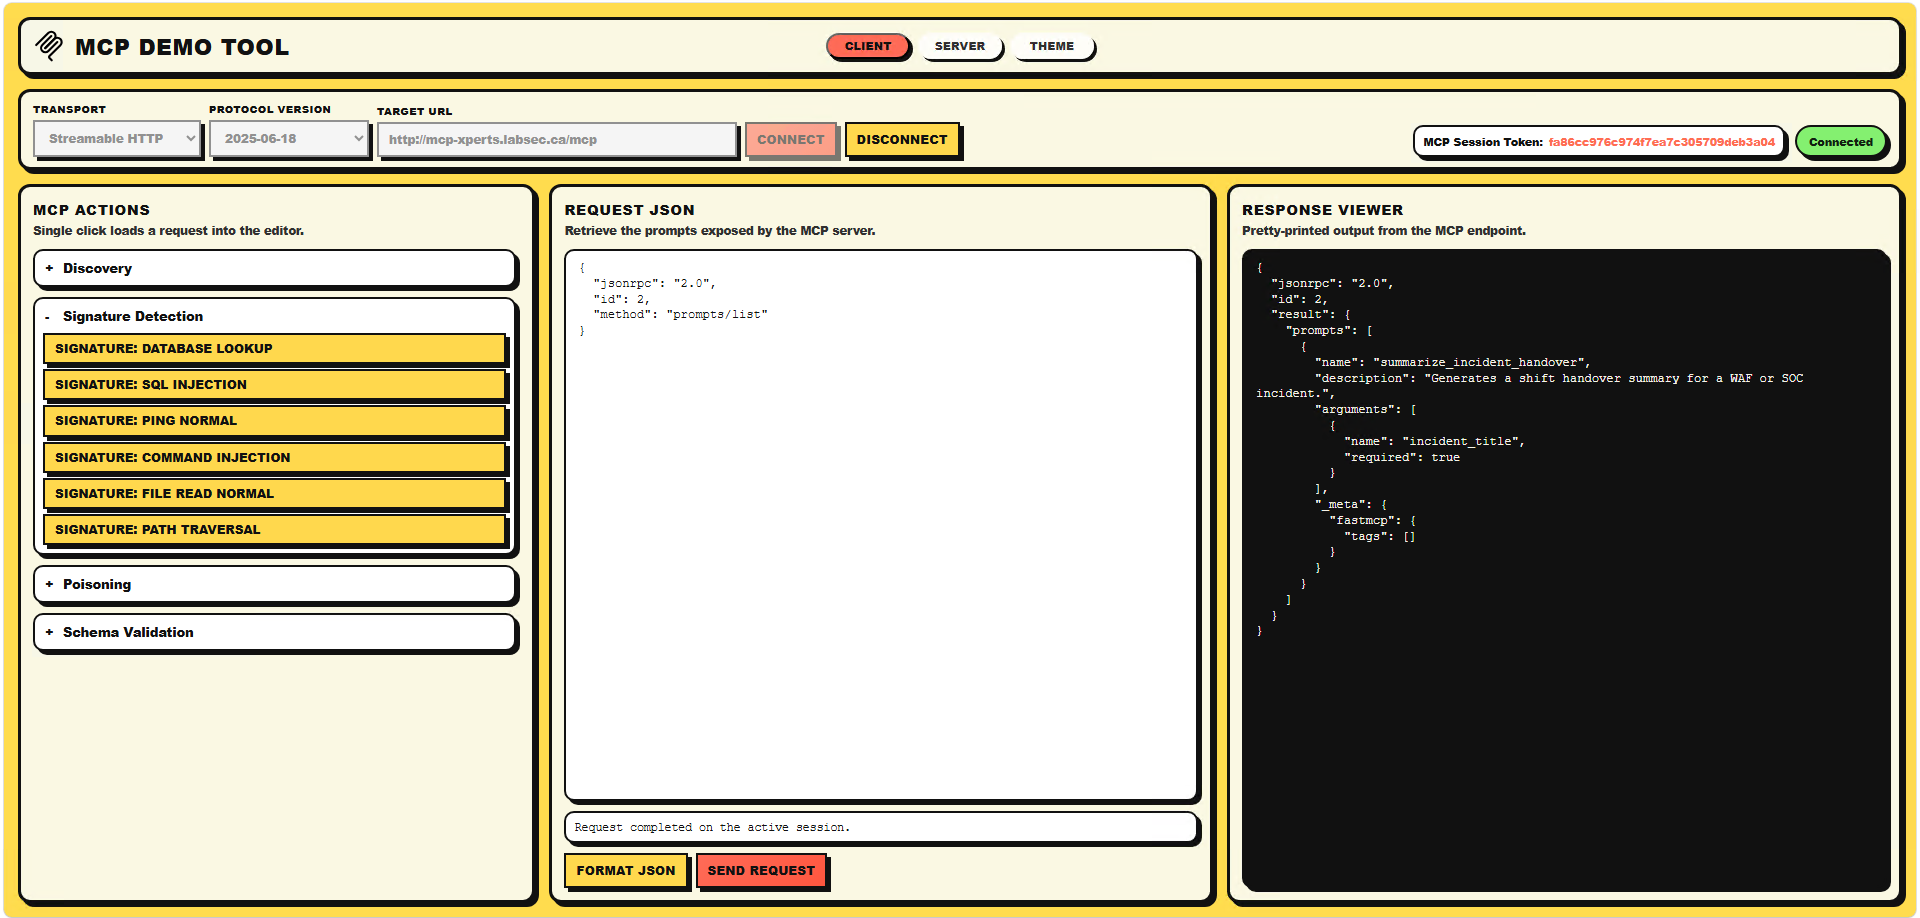
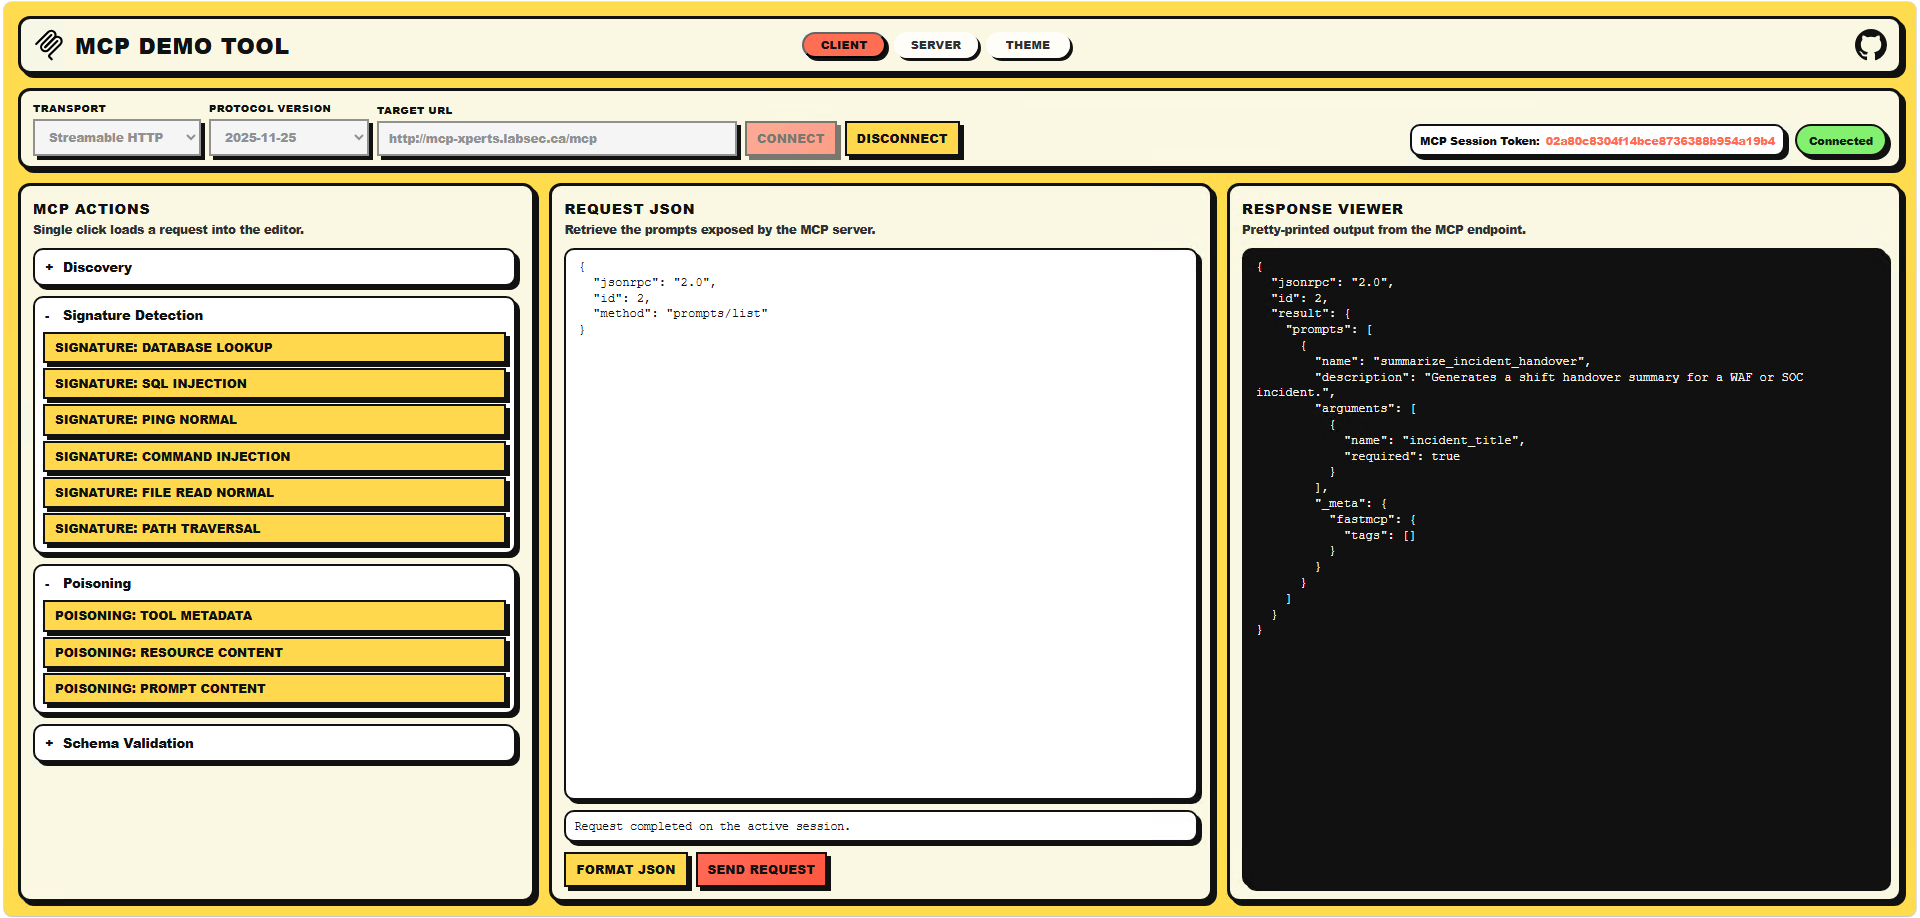
Github link

diff --git a/apps/web/webapp/templates/index.html b/apps/web/webapp/templates/index.html
@@ -22,6 +22,38 @@
             <button id="theme-tab" class="tab-button" type="button">Theme</button>
           </nav>
         </div>
+        <div class="topbar-links" aria-label="External Links">
+          <a
+            class="topbar-external-link"
+            href="https://hub.docker.com/repository/docker/benoitbmtl/mcp-demo"
+            target="_blank"
+            rel="noopener noreferrer"
+            aria-label="Open Docker Hub repository"
+            title="Docker Hub repository"
+          >
+            <svg class="topbar-external-logo topbar-docker-logo" viewBox="0 0 122.88 88.17" preserveAspectRatio="xMidYMid meet" aria-hidden="true">
+              <path
+                fill="currentColor"
+                d="M121.68,33.34c-0.34-0.28-3.42-2.62-10.03-2.62c-1.71,0-3.48,0.17-5.19,0.46c-1.25-8.72-8.49-12.94-8.78-13.16l-1.77-1.03l-1.14,1.65c-1.42,2.22-2.51,4.73-3.13,7.29c-1.2,4.96-0.46,9.63,2.05,13.62c-3.02,1.71-7.92,2.11-8.95,2.17l-80.93,0c-2.11,0-3.82,1.71-3.82,3.82c-0.11,7.07,1.08,14.13,3.53,20.8c2.79,7.29,6.95,12.71,12.31,16.01c6.04,3.7,15.9,5.81,27.01,5.81c5.01,0,10.03-0.46,14.99-1.37c6.9-1.25,13.51-3.65,19.6-7.12c5.02-2.91,9.52-6.61,13.34-10.94c6.44-7.24,10.26-15.33,13.05-22.51c0.4,0,0.74,0,1.14,0c7.01,0,11.34-2.79,13.73-5.19c1.6-1.48,2.79-3.31,3.65-5.36l0.51-1.48L121.68,33.34L121.68,33.34z M71.59,39.38h10.83c0.51,0,0.97-0.4,0.97-0.97v-9.69c0-0.51-0.4-0.97-0.97-0.97l0,0l-10.83,0c-0.51,0-0.97,0.4-0.97,0.97l0,0v9.69C70.68,38.98,71.08,39.38,71.59,39.38L71.59,39.38z M56.49,11.63h10.83c0.51,0,0.97-0.4,0.97-0.97V0.97c0-0.51-0.46-0.97-0.97-0.97L56.49,0c-0.51,0-0.97,0.4-0.97,0.97l0,0v9.69C55.52,11.17,55.97,11.63,56.49,11.63L56.49,11.63z M56.49,25.53h10.83c0.51,0,0.97-0.46,0.97-0.97v-9.69c0-0.51-0.46-0.97-0.97-0.97H56.49c-0.51,0-0.97,0.4-0.97,0.97l0,0v9.69C55.52,25.08,55.97,25.53,56.49,25.53L56.49,25.53z M41.5,25.53h10.83c0.51,0,0.97-0.46,0.97-0.97v-9.69c0-0.51-0.4-0.97-0.97-0.97l0,0H41.5c-0.51,0-0.97,0.4-0.97,0.97l0,0v9.69C40.53,25.08,40.93,25.53,41.5,25.53L41.5,25.53z M26.28,25.53h10.83c0.51,0,0.97-0.46,0.97-0.97v-9.69c0-0.51-0.4-0.97-0.97-0.97l0,0H26.28c-0.51,0-0.97,0.4-0.97,0.97v9.69C25.37,25.08,25.77,25.53,26.28,25.53L26.28,25.53z M56.49,39.38h10.83c0.51,0,0.97-0.4,0.97-0.97v-9.69c0-0.51-0.4-0.97-0.97-0.97l0,0l-10.83,0c-0.51,0-0.97,0.4-0.97,0.97l0,0v9.69C55.52,38.98,55.97,39.38,56.49,39.38L56.49,39.38L56.49,39.38z M41.5,39.38h10.83c0.51,0,0.97-0.4,0.97-0.97l0,0v-9.69c0-0.51-0.4-0.97-0.97-0.97l0,0l-10.83,0c-0.51,0-0.97,0.4-0.97,0.97l0,0v9.69C40.53,38.98,40.93,39.38,41.5,39.38L41.5,39.38L41.5,39.38z M26.28,39.38h10.83c0.51,0,0.97-0.4,0.97-0.97l0,0v-9.69c0-0.51-0.4-0.97-0.97-0.97l0,0l-10.83,0c-0.51,0-0.97,0.4-0.97,0.97v9.69C25.37,38.98,25.77,39.38,26.28,39.38L26.28,39.38z M11.35,39.38h10.83c0.51,0,0.97-0.4,0.97-0.97l0,0v-9.69c0-0.51-0.4-0.97-0.97-0.97l0,0l-10.83,0c-0.51,0-0.97,0.4-0.97,0.97l0,0v9.69C10.44,38.98,10.84,39.38,11.35,39.38L11.35,39.38L11.35,39.38z"
+              />
+            </svg>
+          </a>
+          <a
+            class="topbar-external-link"
+            href="https://github.com/benoitbMTL/mcp-demo"
+            target="_blank"
+            rel="noopener noreferrer"
+            aria-label="Open GitHub repository"
+            title="GitHub repository"
+          >
+            <svg class="topbar-external-logo" viewBox="0 0 16 16" aria-hidden="true">
+              <path
+                fill="currentColor"
+                d="M8 0C3.58 0 0 3.58 0 8c0 3.54 2.29 6.53 5.47 7.59.4.07.55-.17.55-.38 0-.19-.01-.82-.01-1.49-2.01.37-2.53-.49-2.69-.94-.09-.23-.48-.94-.82-1.13-.28-.15-.68-.52-.01-.53.63-.01 1.08.58 1.23.82.72 1.21 1.87.87 2.33.66.07-.52.28-.87.51-1.07-1.78-.2-3.64-.89-3.64-3.95 0-.87.31-1.59.82-2.15-.08-.2-.36-1.02.08-2.12 0 0 .67-.21 2.2.82a7.52 7.52 0 0 1 2-.27c.68 0 1.36.09 2 .27 1.53-1.04 2.2-.82 2.2-.82.44 1.1.16 1.92.08 2.12.51.56.82 1.27.82 2.15 0 3.07-1.87 3.75-3.65 3.95.29.25.54.73.54 1.48 0 1.07-.01 1.93-.01 2.2 0 .21.15.46.55.38A8.01 8.01 0 0 0 16 8c0-4.42-3.58-8-8-8Z"
+              />
+            </svg>
+          </a>
+        </div>
       </div>
     </header>
 

diff --git a/apps/web/webapp/static/app.js b/apps/web/webapp/static/app.js
@@ -400,12 +400,35 @@
     syncActionButtons();
   }
 
+  function getSessionTokenFromUrl(urlValue) {
+    if (!urlValue) {
+      return null;
+    }
+    try {
+      const parsed = new URL(urlValue, window.location.origin);
+      return (
+        parsed.searchParams.get("session_id") ||
+        parsed.searchParams.get("sessionId") ||
+        parsed.searchParams.get("mcp_session_id") ||
+        parsed.searchParams.get("mcp-session-id") ||
+        parsed.searchParams.get("token") ||
+        null
+      );
+    } catch {
+      return null;
+    }
+  }
+
   function getConnectionDetails(result) {
     const connection = result?.connection || result?.probe?.connection || {};
     const response = result?.response || result?.probe?.response || {};
     const requestHttp = response?.request_http || {};
     const bootstrapInitialize =
-      result?.bootstrap?.initialize || result?.probe?.bootstrap?.initialize || {};
+      result?.bootstrap?.initialize ||
+      result?.probe?.bootstrap?.initialize ||
+      result?.bootstrap?.initialize_http ||
+      result?.probe?.bootstrap?.initialize_http ||
+      {};
 
     return {
       protocolVersion:
@@ -418,6 +441,7 @@
         response.mcp_session_id ||
         requestHttp.mcp_session_id ||
         bootstrapInitialize.mcp_session_id ||
+        getSessionTokenFromUrl(connection.message_url) ||
         null,
     };
   }
@@ -611,17 +635,19 @@
     elements.serverStatusEndpoint.textContent = runtime.endpoint_url || "n/a";
     elements.serverStatusError.textContent = runtime.last_error || "none";
 
-    if (runtime.transport) {
-      elements.serverTransportMode.value = runtime.transport;
-    }
-    if (runtime.protocol_version) {
-      elements.serverProtocolVersion.value = runtime.protocol_version;
-    }
-    if (runtime.host) {
-      elements.serverHost.value = runtime.host;
-    }
-    if (runtime.port) {
-      elements.serverPort.value = runtime.port;
+    if (running) {
+      if (runtime.transport) {
+        elements.serverTransportMode.value = runtime.transport;
+      }
+      if (runtime.protocol_version) {
+        elements.serverProtocolVersion.value = runtime.protocol_version;
+      }
+      if (runtime.host) {
+        elements.serverHost.value = runtime.host;
+      }
+      if (runtime.port) {
+        elements.serverPort.value = runtime.port;
+      }
     }
 
     elements.serverStartButton.disabled = running;

diff --git a/apps/web/webapp/static/styles.css b/apps/web/webapp/static/styles.css
@@ -341,6 +341,45 @@ body[data-theme="neo-brutalism"] .tab-button.active {
   flex-wrap: nowrap;
 }
 
+.topbar-links {
+  margin-left: auto;
+  display: flex;
+  align-items: center;
+  gap: 8px;
+  flex: 0 0 auto;
+}
+
+.topbar-external-link {
+  width: 24px;
+  height: 24px;
+  display: inline-flex;
+  align-items: center;
+  justify-content: center;
+  color: var(--text);
+  text-decoration: none;
+  flex: 0 0 auto;
+}
+
+.topbar-external-logo {
+  width: 24px;
+  height: 24px;
+  display: block;
+}
+
+.topbar-docker-logo {
+  width: 24px;
+  height: auto;
+}
+
+body[data-theme="fortinet"] .topbar-external-link {
+  color: #ffffff;
+}
+
+body[data-theme="glassmorphism"] .topbar-external-link,
+body[data-theme="glassbox-dark"] .topbar-external-link {
+  color: #ffffff;
+}
+
 .status-meta-group {
   min-width: 0;
   display: flex;

diff --git a/apps/web/webapp/mcp_gateway.py b/apps/web/webapp/mcp_gateway.py
@@ -5,7 +5,7 @@ import contextlib
 import json
 import re
 from typing import Any
-from urllib.parse import urljoin, urlparse
+from urllib.parse import parse_qs, urljoin, urlparse
 
 import httpx
 
@@ -91,6 +91,16 @@ def make_initialized_notification() -> dict[str, Any]:
 def extract_request_id(payload: Any) -> str | int | None:
     if isinstance(payload, dict):
         return payload.get("id")
+    return None
+
+
+def extract_sse_session_id(message_url: str) -> str | None:
+    parsed_url = urlparse(message_url)
+    query_params = parse_qs(parsed_url.query)
+    for key in ("session_id", "sessionId", "mcp_session_id", "mcp-session-id", "token"):
+        values = query_params.get(key)
+        if values:
+            return values[0]
     return None
 
 
@@ -307,6 +317,7 @@ async def send_sse_transaction(endpoint_url: str, payload: Any, protocol_version
             try:
                 endpoint_event = await wait_for_sse_event(queue, event_name="endpoint")
                 message_url = urljoin(str(stream_response.url), endpoint_event["data"])
+                session_id = extract_sse_session_id(message_url)
                 bootstrap_info: dict[str, Any] | None = None
                 if needs_bootstrap:
                     initialize_payload = make_initialize_request(protocol_version)
@@ -322,6 +333,7 @@ async def send_sse_transaction(endpoint_url: str, payload: Any, protocol_version
                         },
                     )
                     initialize_http = parse_http_response(initialize_response)
+                    session_id = session_id or initialize_http.get("mcp_session_id")
                     initialize_event = await wait_for_sse_event(
                         queue,
                         request_id=initialize_payload["id"],
@@ -359,6 +371,7 @@ async def send_sse_transaction(endpoint_url: str, payload: Any, protocol_version
                     },
                 )
                 request_http = parse_http_response(request_response)
+                session_id = session_id or request_http.get("mcp_session_id")
 
                 matched_event: dict[str, Any] | None = None
                 if request_id is not None:
@@ -370,6 +383,7 @@ async def send_sse_transaction(endpoint_url: str, payload: Any, protocol_version
                         "endpoint_url": endpoint_url,
                         "message_url": message_url,
                         "protocol_version": protocol_version,
+                        "mcp_session_id": session_id,
                     },
                     "bootstrap": bootstrap_info,
                     "response": {

diff --git a/docs/DOCKER.md b/docs/DOCKER.md
@@ -1,9 +1,11 @@
 # Docker Deployment 🐳
 
-The Docker image runs both services in one container:
+The Docker image starts only the Web UI:
 
-- `server/server.py` on port `7000`
 - `apps/web/run_web_ui.py` on port `7001`
+
+The MCP server is managed from the Web UI (Server tab) and is **not** started automatically.
+Port `7000` is still published so the managed server is reachable when started from the UI.
 
 ## Build On Ubuntu 🛠
 
@@ -20,7 +22,6 @@ docker run -d \
   --restart unless-stopped \
   -p 7000:7000 \
   -p 7001:7001 \
-  -e MCP_PROTOCOL_VERSION=2025-11-25 \
   mcp-demo-tool
 ```
 
@@ -41,8 +42,9 @@ docker run -d \
   --restart unless-stopped \
   -p 7000:7000 \
   -p 7001:7001 \
-  -e MCP_TRANSPORT=streamable-http \
-  -e MCP_PROTOCOL_VERSION=2025-11-25 \
+  -e WEB_UI_THEME=fortinet \
+  -e WEB_UI_HOST=0.0.0.0 \
+  -e WEB_UI_PORT=7001 \
   -e MCP_TOOL_DESCRIPTION_VARIANT=malicious_cryptojacking \
   -e MCP_RESOURCE_VARIANT=bias_master_slave \
   -e MCP_PROMPT_VARIANT=social_urgent \

diff --git a/README.md b/README.md
@@ -7,7 +7,7 @@ This repository contains a complete MCP security demo with:
 - a CLI client
 - Claude Desktop integration assets
 - shell and PowerShell test scripts
-- Docker packaging for the server + Web UI
+- Docker packaging for the Web UI + managed MCP server control
 
 ![MCP Demo Tool interface](docs/assets/mcp-demo-tool-ui.png)
 
